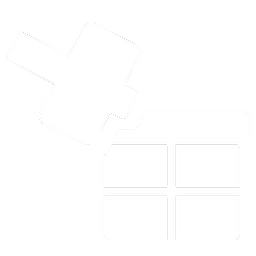
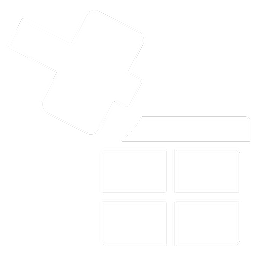
The box is carved once against every mallet pose, so it stops flickering while the tool swings

diff --git a/src/client/build-stamp.ts b/src/client/build-stamp.ts
@@ -6,4 +6,4 @@
  * construction: the code may be wrong, or the client may simply be showing the previous
  * version. Two hours of that argument (1 Sep) is what this four-character string ends.
  */
-export const BUILD = 'b63b'
+export const BUILD = '3202'

diff --git a/tools/ui/build-smash-icon.py b/tools/ui/build-smash-icon.py
@@ -130,44 +130,66 @@ def creuser(fond, dessus, at, marge):
     return fond
 
 
-def dessine(size, pose, colour):
-    big = size * SS
-    im = Image.new('RGBA', (big, big), (0, 0, 0, 0))
+def dessiner_poses(size, colour):
+    """The three frames at once, because two of their three decisions are SHARED.
 
+    Drawn one pose at a time, this glyph flickered (owner, 7 Sep). Two mistakes, both invisible
+    when you look at a single frame:
+
+      The void was carved per pose, so the box lost a different piece of itself in each one and
+      its planks blinked in and out while the mallet swung. The box must be identical in all
+      three: it is carved ONCE, around the UNION of the three mallet poses.
+
+      And the mallet was placed by its own ink in each pose, which quietly cancelled most of the
+      swing: `framed` already returns the three poses in one common frame of reference, so
+      re-anchoring each one puts them all back on top of each other. The anchor is taken from the
+      resting pose alone and the other two ride on it, which is what makes the head travel.
+    """
+    big = size * SS
     bx = boite(int(BOX_PART * big), colour)
-    ml = maillet_court(int(MALLET_PART * big), colour)[pose].rotate(MALLET_TURN, resample=Image.BICUBIC)
-    bb, mb = encre(bx), encre(ml)
+    poses = {p: maillet_court(int(MALLET_PART * big), colour)[p].rotate(MALLET_TURN, resample=Image.BICUBIC)
+             for p in ('struck', 'mid', 'raised')}
+    bb = encre(bx)
+    mb = encre(poses['struck'])
 
     # The box first: its ink's top left corner lands on the chosen point.
     bx_at = (round(BOX_TL[0] * big) - bb[0], round(BOX_TL[1] * big) - bb[1])
     # Then the mallet, so its head (the bottom right of the ink, once turned) lands on the point
-    # of the box it strikes, given as a share of the box's own ink.
+    # of the box it strikes, given as a share of the box's own ink. One position for all three.
     vise = (round(BOX_TL[0] * big) + round(FRAPPE[0] * (bb[2] - bb[0])),
             round(BOX_TL[1] * big) + round(FRAPPE[1] * (bb[3] - bb[1])))
     ml_at = (vise[0] - mb[2], vise[1] - mb[3])
+
+    # The union of the three poses: what the box has to make room for, and what has to fit.
+    union = Image.new('RGBA', poses['struck'].size, (0, 0, 0, 0))
+    for im in poses.values():
+        union.alpha_composite(im)
+    ub = encre(union)
 
     # Nothing may leave the canvas: a bar amputated by the frame reads as a mistake at 35 px,
     # and `normalise-glyphs.py` would then scale the damage rather than the drawing. The test is
     # on the INTENDED rectangles, never on the composite: `alpha_composite` drops what falls
     # outside without a word, so a check made afterwards always finds a glyph that fits.
-    for at, bb2, quoi in ((bx_at, bb, 'boite'), (ml_at, mb, 'maillet')):
-        x0, y0 = at[0] + bb2[0], at[1] + bb2[1]
-        x1, y1 = at[0] + bb2[2], at[1] + bb2[3]
+    for at, box, quoi in ((bx_at, bb, 'boite'), (ml_at, ub, 'maillet')):
+        x0, y0, x1, y1 = at[0] + box[0], at[1] + box[1], at[0] + box[2], at[1] + box[3]
         assert 0 <= x0 and 0 <= y0 and x1 <= big and y1 <= big, \
             f'{quoi} hors cadre: {(x0, y0, x1, y1)} dans {big}'
 
     fond = Image.new('RGBA', (big, big), (0, 0, 0, 0))
     fond.alpha_composite(bx, bx_at)
-    fond = creuser(fond, ml, ml_at, round(VIDE * big))
-    im.alpha_composite(fond)
-    im.alpha_composite(ml, ml_at)
-    return im.resize((size, size), Image.LANCZOS)
+    fond = creuser(fond, union, ml_at, round(VIDE * big))
+
+    out = {}
+    for nom, im in poses.items():
+        f = fond.copy()
+        f.alpha_composite(im, ml_at)
+        out[nom] = f.resize((size, size), Image.LANCZOS)
+    return out
 
 
 if __name__ == '__main__':
     for family, colour in (('icon', WHITE), ('encre', NAVY)):
-        for pose in ('struck', 'mid', 'raised'):
-            im = dessine(N, pose, colour)
+        for pose, im in dessiner_poses(N, colour).items():
             name = f'{family}-smash.png' if pose == 'struck' else f'{family}-smash-{pose}.png'
             im.save(os.path.join(OUT, name), optimize=True)
             print(f'wrote {name}')
